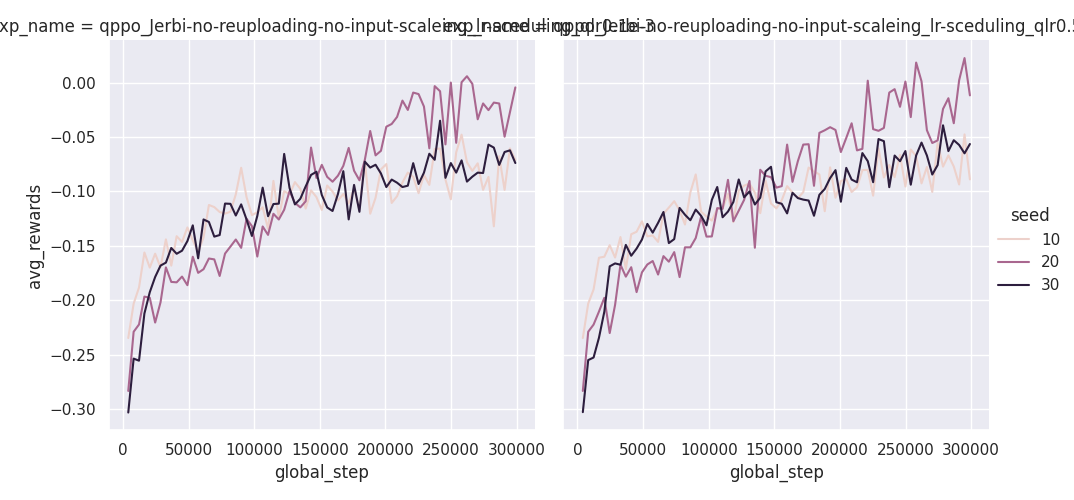
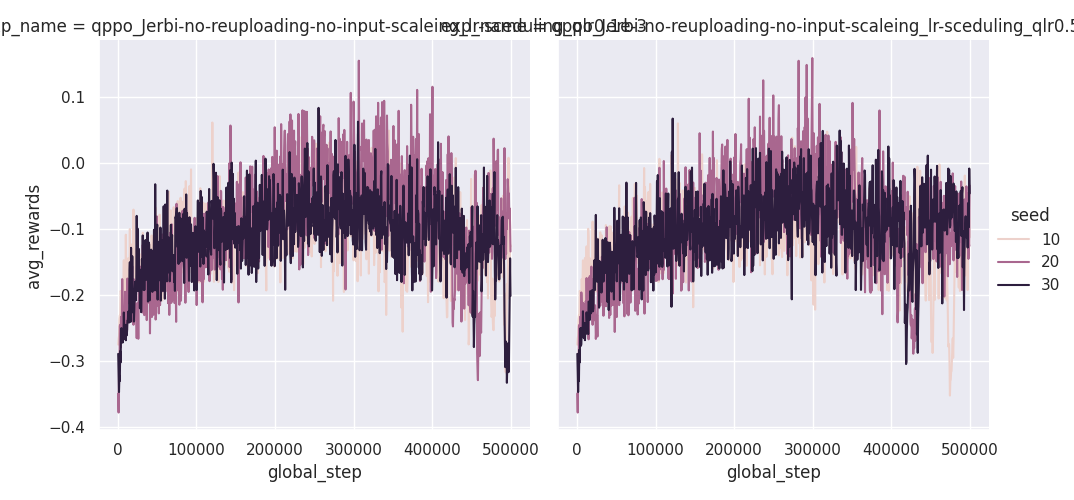
new plots

diff --git a/test_log.py b/test_log.py
@@ -54,7 +54,7 @@ exp_names = [
     "qppo_Jerbi-no-reuploading-no-input-scaleing_lr-sceduling_qlr0.5e-3",
 ]
 seeds = [10, 20, 30]
-stepsize = 4 * 128 * 8
-max_steps = 300000
+stepsize = 4 * 128 * 1
+max_steps = 500000
 
 plot_test_avg(results_dir, plot_dir, gym_id, exp_names, seeds, stepsize, max_steps)
